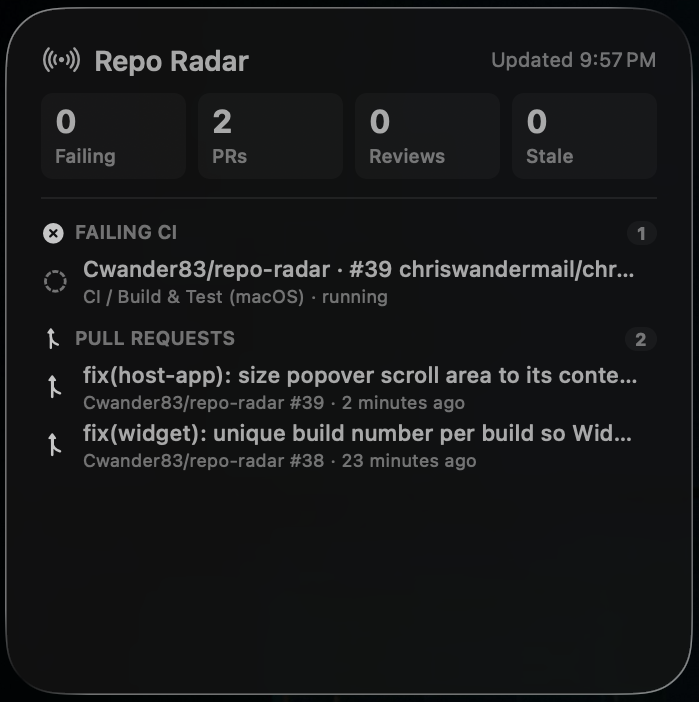
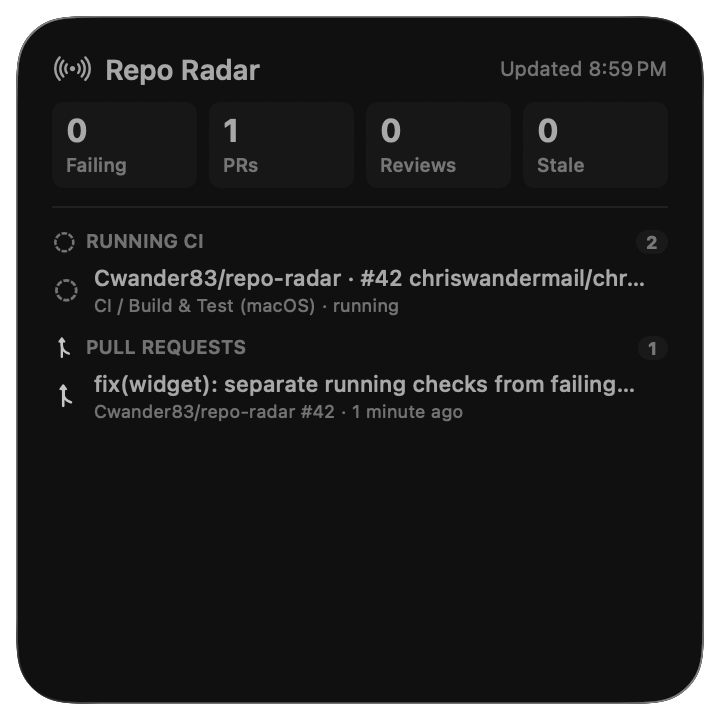
fix(widget): separate running checks from failing CI in large widget (CHR-109) (#42)
* fix(widget): separate running checks from failing CI in large widget (CHR-109)

* docs(readme): retake large widget screenshot showing RUNNING CI section (CHR-109)

diff --git a/RepoRadarWidget/RepoRadarWidget.swift b/RepoRadarWidget/RepoRadarWidget.swift
@@ -644,7 +644,7 @@ private struct SmallSectionListView: View {
     case .all:
       return snapshot.failingCI.count + snapshot.pullRequests.count + snapshot.staleBranches.count
     case .failingCI:
-      return snapshot.failingCI.count + snapshot.runningCI.count
+      return snapshot.failingCI.count
     case .pullRequests:
       return snapshot.pullRequests.count
     case .staleBranches:
@@ -1088,7 +1088,7 @@ private struct MediumDataView: View {
     case .all:
       return snapshot.failingCI.count + snapshot.pullRequests.count + snapshot.staleBranches.count
     case .failingCI:
-      return snapshot.failingCI.count + snapshot.runningCI.count
+      return snapshot.failingCI.count
     case .pullRequests:
       return snapshot.pullRequests.count
     case .staleBranches:
@@ -1470,13 +1470,13 @@ private struct LargeDataView: View {
       VStack(alignment: .leading, spacing: 8) {
         // Section 1: Failing CI
         if section == .all || section == .failingCI {
-          if !snapshot.failingCI.isEmpty || !snapshot.runningCI.isEmpty {
+          if !snapshot.failingCI.isEmpty {
             VStack(alignment: .leading, spacing: 3) {
               WidgetSectionHeader(
                 icon: "xmark.circle.fill",
                 iconColor: RepoRadarColors.statusFail,
                 title: "FAILING CI",
-                count: snapshot.failingCI.count + snapshot.runningCI.count
+                count: snapshot.failingCI.count
               )
 
               ForEach(failingDisplay) { item in
@@ -1492,6 +1492,17 @@ private struct LargeDataView: View {
                   accessibilityLabelText: item.accessibilityLabel()
                 )
               }
+            }
+          }
+
+          if !snapshot.runningCI.isEmpty {
+            VStack(alignment: .leading, spacing: 3) {
+              WidgetSectionHeader(
+                icon: "circle.dashed",
+                iconColor: .secondary,
+                title: "RUNNING CI",
+                count: snapshot.runningCI.count
+              )
 
               ForEach(runningDisplay) { item in
                 WidgetRowView(
